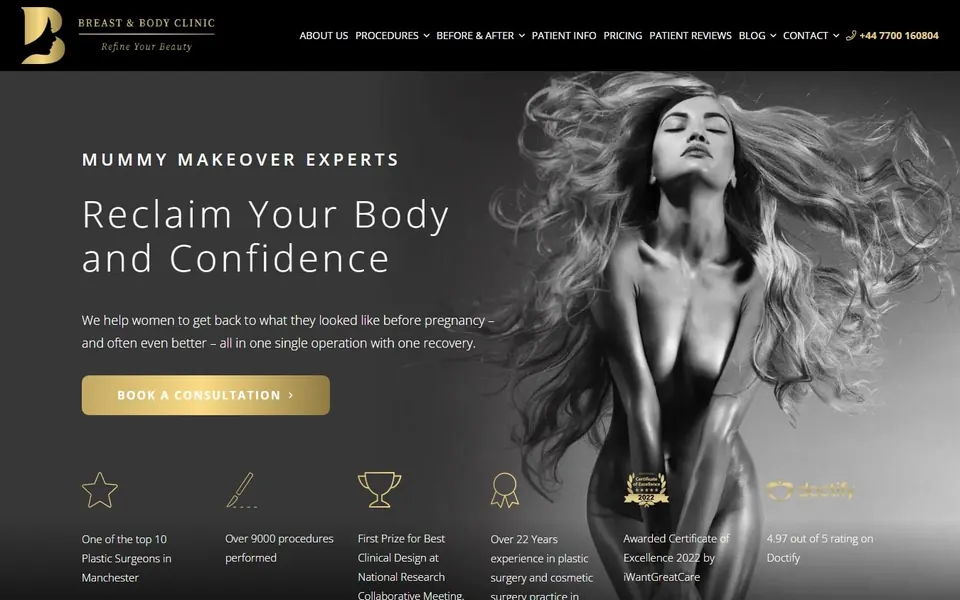
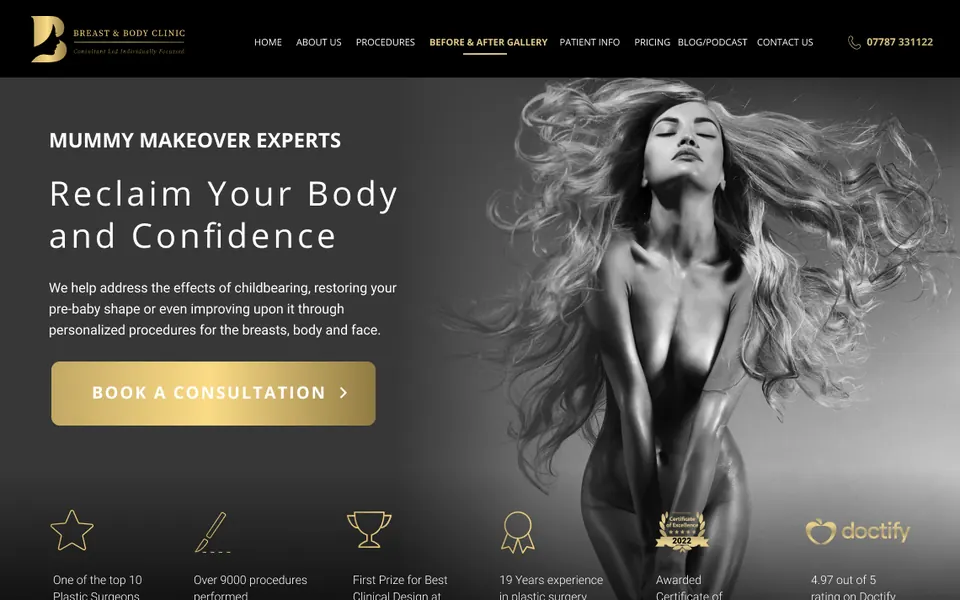
Medical web design: new Breast and Body Clinic homepage, first in the hero
Replaces the Breast and Body Clinic UK homepage in the portfolio with the
newly uploaded screenshot, leads its case study with it in place of the
mummy makeover page, and makes it the first website the hero browser
scrolls through.

Claude-Session: https://claude.ai/code/session_01DoS8F1f6SJ2P4hVY4qTTpi

Changed region(s): [[0.0, 0.0, 1.0, 1.0], [0.0938, 0.78, 0.125, 0.84]]

diff --git a/medical-web-design/assets/js/main.js b/medical-web-design/assets/js/main.js
@@ -47,7 +47,7 @@
       stats: [['300 to 4,270', 'search impressions a day'], ['1,068%', 'increase in total website traffic'], ['800%', 'more enquiries from organic search']],
       situation: 'Mr Aftab Siddiqui was competing in Manchester against clinics with years of history online. The website had thin, copied content, 300 impressions a day, and no first-page rankings for the procedures the practice is built on.',
       did: ['Redesigned the website and rewrote the procedure pages for tummy tuck, breast augmentation, breast reduction and mummy makeover', 'Built in lead magnets, patient testimonials and a regular blog', 'A CRM so every website enquiry is tracked and followed up', 'Keyword research across every important Manchester suburb, mapped page by page'],
-      shots: [[C + 'bbc-landing-page.webp', 'Mummy makeover page'], [C + 'breast-and-body-uk-traffic-over-6000.webp', 'Website traffic growth', '', 'fit'], [C + 'bbc-breast-augmentation-page--top.webp', 'The breast augmentation page', C + 'bbc-breast-augmentation-page--full.webp']],
+      shots: [[WS + 'breast-and-body-clinic-uk--top.webp', 'The new Breast and Body Clinic homepage', WS + 'breast-and-body-clinic-uk--full.webp'], [C + 'breast-and-body-uk-traffic-over-6000.webp', 'Website traffic growth', '', 'fit'], [C + 'bbc-breast-augmentation-page--top.webp', 'The breast augmentation page', C + 'bbc-breast-augmentation-page--full.webp']],
       portrait: C + 'bbc-siddiqui.webp',
       quote: 'My website has been redesigned, I have lead magnets such as interesting eBooks, client testimonials, fantastic blogs, detailed new content and they set up a CRM which enables me to track and monitor how my website performs.',
       who: 'Mr Aftab Siddiqui', role: 'Plastic Surgeon, Breast and Body Clinic UK',
@@ -229,6 +229,7 @@
 
   /* the browser in the hero scrolls through these, top to bottom */
   const HERO_SITES = [
+    { f: 'breast-and-body-clinic-uk', name: 'Breast and Body Clinic UK', place: 'Manchester', url: 'breastandbody.co.uk' },
     { f: 'british-face-clinic', name: 'British Face Clinic', place: 'Harley Street', url: 'britishfaceclinic.com' },
     { f: 'delta-clinics', name: 'Delta Clinics', place: 'Harley Street', url: 'deltaclinics.co.uk' },
     { f: 'the-harley-street-eye-centre', name: 'The Harley Street Eye Centre', place: 'Harley Street', url: 'theharleystreeteyecentre.com' }

diff --git a/medical-web-design/index.html b/medical-web-design/index.html
@@ -103,12 +103,12 @@ height="0" width="0" style="display:none;visibility:hidden"></iframe></noscript>
          cards around it are real numbers from the case studies -->
     <div class="hero-viz viz-video" id="heroViz" aria-label="Websites we have designed for UK clinics">
       <div class="hv-frame rv" style="--d:.35s">
-        <div class="hv-bar" aria-hidden="true"><i></i><i></i><i></i><span class="hv-url"><svg viewBox="0 0 24 24" fill="none" stroke="currentColor" stroke-width="2.6" stroke-linecap="round" stroke-linejoin="round"><rect x="5" y="11" width="14" height="10" rx="2"/><path d="M8 11V8a4 4 0 0 1 8 0v3"/></svg><span id="hvUrl">britishfaceclinic.com</span></span></div>
+        <div class="hv-bar" aria-hidden="true"><i></i><i></i><i></i><span class="hv-url"><svg viewBox="0 0 24 24" fill="none" stroke="currentColor" stroke-width="2.6" stroke-linecap="round" stroke-linejoin="round"><rect x="5" y="11" width="14" height="10" rx="2"/><path d="M8 11V8a4 4 0 0 1 8 0v3"/></svg><span id="hvUrl">breastandbody.co.uk</span></span></div>
         <div class="hv-screen" id="hvScreen">
-          <img src="assets/work/websites/british-face-clinic--hero.webp" alt="The British Face Clinic website, designed by OMD" width="760" height="6126" fetchpriority="high">
+          <img src="assets/work/websites/breast-and-body-clinic-uk--hero.webp" alt="The Breast and Body Clinic UK website, designed by OMD" width="760" height="4821" fetchpriority="high">
         </div>
       </div>
-      <div class="hv-caption rv" style="--d:.5s"><span id="hvName"><b>British Face Clinic</b> &middot; Harley Street</span><span class="hv-dots" id="hvDots"></span></div>
+      <div class="hv-caption rv" style="--d:.5s"><span id="hvName"><b>Breast and Body Clinic UK</b> &middot; Manchester</span><span class="hv-dots" id="hvDots"></span></div>
       <div class="fc rv" data-depth="1.2" style="--x:-5%;--y:44%;--rot:-3deg;--dur:12s;--del:-2s;--d:.6s">
         <span class="fc-stat"><b>467%</b><span>more enquiries after the new website</span><small>The Crown Clinic</small></span>
       </div>
